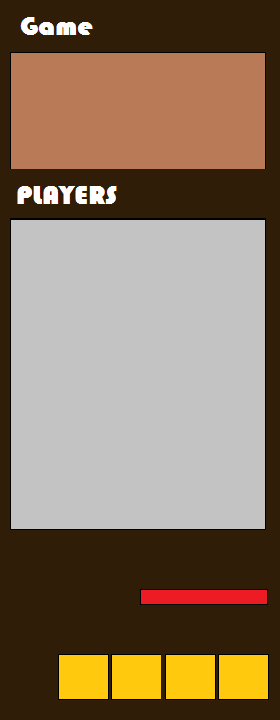
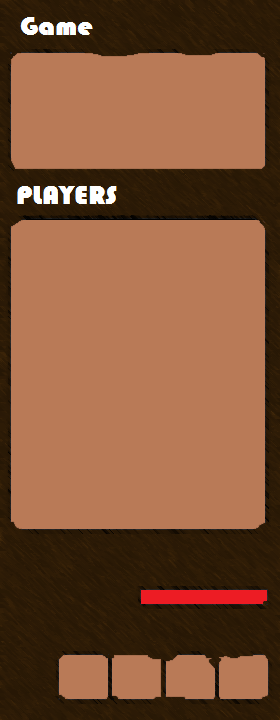
Hud update

diff --git a/PlatformerPOC/Hud/Hud.cs b/PlatformerPOC/Hud/Hud.cs
@@ -38,15 +38,15 @@ namespace PlatformerPOC.Hud
             for (int index = 0; index < _game.PlayerManager.Players.Count; index++)
             {
                 var player = _game.PlayerManager.Players[index];
-                _game.SpriteBatch.DrawString(_game.DefaultFont, player.Name, new Vector2(leftTextStart, playersStart + (index * vTextSpace)), Color.White, 0, Vector2.Zero, 0.6f, SpriteEffects.None, -999);
-                _game.SpriteBatch.DrawString(_game.DefaultFont, player.Wins.ToString(), new Vector2(1170, playersStart + (index * vTextSpace)), Color.White, 0, Vector2.Zero, 0.6f, SpriteEffects.None, -999);
-                _game.SpriteBatch.DrawString(_game.DefaultFont, player.Deaths.ToString(), new Vector2(1200, playersStart + (index * vTextSpace)), Color.White, 0, Vector2.Zero, 0.6f, SpriteEffects.None, -999);
+                _game.SpriteBatch.DrawString(_game.DefaultFont, player.Name, new Vector2(leftTextStart, playersStart + (index * vTextSpace)),player.TextColor, 0, Vector2.Zero, 0.6f, SpriteEffects.None, -999);
+                _game.SpriteBatch.DrawString(_game.DefaultFont, player.Wins.ToString(), new Vector2(1170, playersStart + (index * vTextSpace)), player.TextColor, 0, Vector2.Zero, 0.6f, SpriteEffects.None, -999);
+                _game.SpriteBatch.DrawString(_game.DefaultFont, player.Deaths.ToString(), new Vector2(1200, playersStart + (index * vTextSpace)), player.TextColor, 0, Vector2.Zero, 0.6f, SpriteEffects.None, -999);
             }
 
-            // healthbar
-
-
-            // weapon info
+            // player info section
+            _game.SpriteBatch.DrawString(_game.DefaultFont, "Player 1", new Vector2(leftTextStart, 550), Color.White, 0, Vector2.Zero, 0.6f, SpriteEffects.None, -999);
+            _game.SpriteBatch.Draw(_game.ResourcesHelper.Pistol, new Vector2(1068, 662), null, Color.White, 0f, Vector2.Zero, 1, SpriteEffects.None, LayerDepths.OVERLAY);
+            _game.SpriteBatch.Draw(_game.ResourcesHelper.PlayerAvatar, new Vector2(1058, 582), null, Color.White, 0f, Vector2.Zero, 1, SpriteEffects.None, LayerDepths.OVERLAY);
         }
     }
 }

diff --git a/PlatformerPOC/ResourcesHelper.cs b/PlatformerPOC/ResourcesHelper.cs
@@ -18,6 +18,9 @@ namespace PlatformerPOC
         public Texture2D BgLayer2Texture { get; private set; }
         public Texture2D HudText { get; private set; }
         public Texture2D HudMsg { get; private set; }        
+        public Texture2D PlayerAvatar { get; private set; }        
+
+        public Texture2D Pistol { get; private set; }        
 
         public Texture2D BulletTexture { get; private set; }
 
@@ -43,6 +46,9 @@ namespace PlatformerPOC
             BgLayer2Texture = content.Load<Texture2D>("parallax-layer2");
             HudText = content.Load<Texture2D>("hud");
             HudMsg = content.Load<Texture2D>("hud-msg");
+            PlayerAvatar = content.Load<Texture2D>("player-avatar");
+
+            Pistol = content.Load<Texture2D>("pistol");
             
             BulletTexture = content.Load<Texture2D>("bullet");
 

diff --git a/GameEngine/Graphics/ViewPort.cs b/GameEngine/Graphics/ViewPort.cs
@@ -25,14 +25,13 @@ namespace GameEngine
         {
             this.game = game;
 
-            // TODO BDM: Remove hardcoded values
+            // TODO BDM: Move magic number out of here (doesn't belong in engine!)
 
-            // Test!
-            ViewArea = new Rectangle(0, 0, CoreConfig.ScreenResolutionWidth, CoreConfig.ScreenResolutionHeight);
+            ViewArea = new Rectangle(0, 0, CoreConfig.ScreenResolutionWidth - 280, CoreConfig.ScreenResolutionHeight);
         }
 
         public void DrawDebug()
-        {
+        {            
             var rectangleToDraw = new Rectangle(0, 0, ViewArea.Width, ViewArea.Height);
 
              game.DebugDrawHelper.DrawBorder(rectangleToDraw, 5, Color.Yellow);

diff --git a/PlatformerPOC/GameObjects/Player.cs b/PlatformerPOC/GameObjects/Player.cs
@@ -57,7 +57,7 @@ namespace PlatformerPOC.GameObjects
                     case PlayerTeams.Blue:
                         return Color.DarkBlue;
                     default:
-                        return Color.DarkGray;
+                        return Color.FromNonPremultiplied(30, 30, 30, 255);
                 }
             }
         }
@@ -67,7 +67,7 @@ namespace PlatformerPOC.GameObjects
             get { return Life > 0; }
         }
 
-        private Color TextColor
+        public Color TextColor
         {
             get { return IsAlive ? TeamColor : TeamColorDark; }
         }
